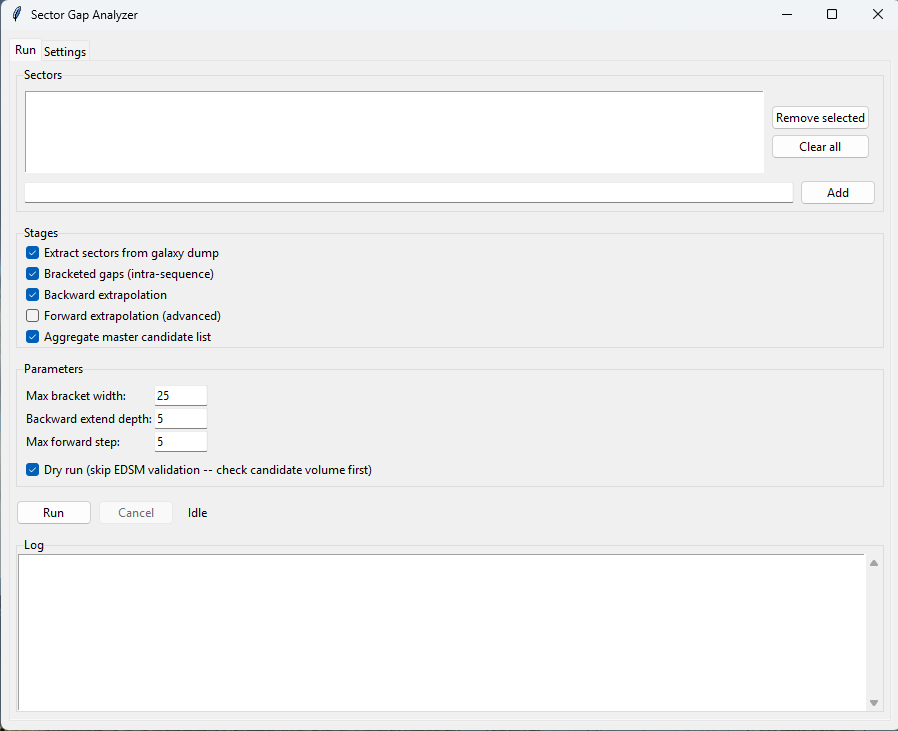
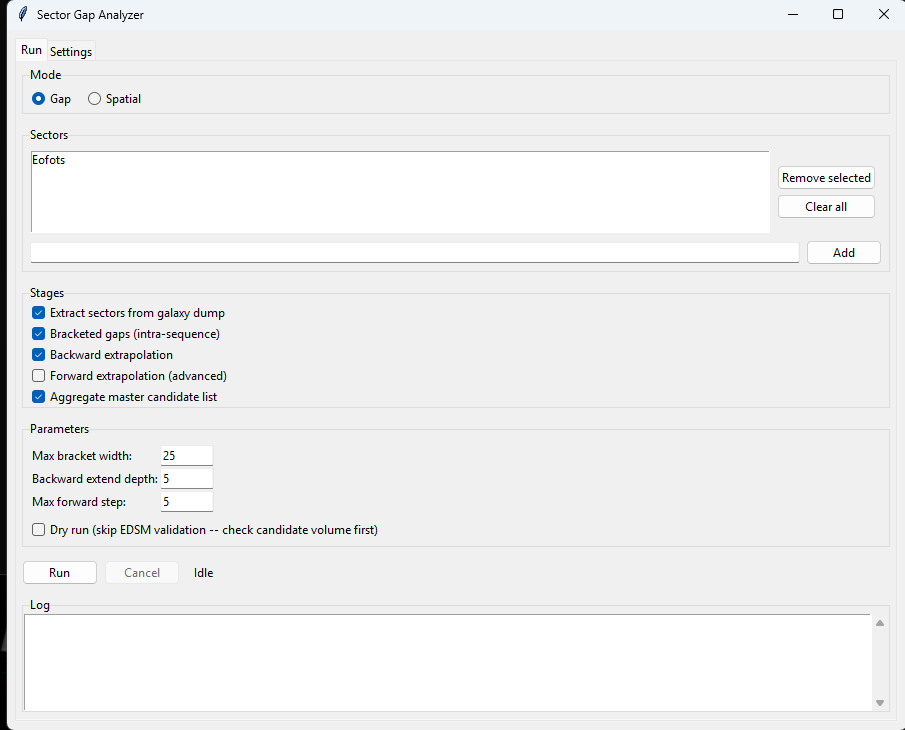
docs: document v1.1.0 features, bump version, refresh samples
Bumps version to 1.1.0 (installer.iss, version_info.txt) for the spatial
search / sort order / sector summary additions. Updates README with the
new Spatial mode, sector summary step, and output schema (mass_code/boxel
columns); refreshes the Run-tab screenshot and the master-candidate-list
samples to match the new output. Also gitignores generated sector summary
reports under data/sector_library/.

diff --git a/README.md b/README.md
@@ -137,11 +137,24 @@ numbers roughly in order, so gaps in the known numbers are informative:
   above a family's known maximum, chain-extended only while EDSM keeps
   confirming each step. Not currently part of the standard run for this
   project (see below) but available if needed.
+- **Spatial search** (`scripts/gap_spatial_export.py`) — the same bracketed-gap
+  and backward-extrapolation logic, but scoped to every system within a
+  chosen radius (light years) of a center system instead of an entire
+  sector prefix. Useful for a quick, targeted search around wherever you
+  currently are in-game rather than analyzing a whole sector. See
+  [Spatial search](#spatial-search) below.
 
 Every candidate is checked against the [EDSM](https://www.edsm.net/) API
 (`GET /api-v1/system?systemName=...`) and only kept if EDSM has no record of
 it — i.e. it's not just "missing from Spansh," it's missing everywhere we can
 cheaply check.
+
+The trailing token of a procedural name (e.g. `d1-23`) further breaks down
+into a **mass code** (`d`, one letter) and a **boxel** number (`1`) followed
+by a **serial** number (`23`). Output lists are sorted sector → subsector →
+mass code → boxel → serial — the order these tokens actually read in-game —
+so candidates near each other on the map land together, regardless of which
+method (bracketed gap, backward, spatial, etc.) found them.
 
 ## Pipeline
 
@@ -152,9 +165,13 @@ cheaply check.
 2. Extraction → data/sector_library/*.sqlite  — scripts/extract_sector_systems_to_sqlite.py
                                                  scripts/extract_multi_sector_to_sqlite.py (many sectors, one pass)
         │
+        ├──► Sector summary → sector_<slug>_summary.md   — scripts/sector_summary_export.py
+        │                                                   (GUI: automatic right after extraction)
         ▼
-3. Candidate generation + EDSM validation     — scripts/gap_full_export.py            (bracketed gaps)
-                                                 scripts/gap_extrapolate_export.py      (backward/forward)
+3. Candidate generation + EDSM validation     — scripts/gap_full_export.py            (bracketed gaps, whole sector)
+                                                 scripts/gap_extrapolate_export.py      (backward/forward, whole sector)
+                                                 scripts/gap_spatial_export.py          (bracketed gaps + backward,
+                                                                                          radius around a system)
         │
         ▼
 4. Cross-sector aggregation → out/            — scripts/aggregate_gap_master_list.py
@@ -225,6 +242,20 @@ Sector-prefix matching requires a token boundary (the prefix must be the
 whole system name or be followed by a space), so `"Oochost"` won't
 accidentally match an unrelated system starting with those same letters.
 
+### Sector summaries
+
+```bash
+python scripts/sector_summary_export.py \
+    --db data/sector_library/sector_outopps.sqlite --sector "Outopps"
+```
+
+Writes `data/sector_library/sector_<slug>_summary.md`: total systems/bodies/
+rings, median ring density per class, Earth-like-world and bio-signature
+hotspot subsector patterns, and a couple of "priority search" pointers
+derived from the strongest patterns. The GUI runs this automatically for
+every sector right after extraction; run it standalone if you extracted a
+sector before this existed, or want to refresh one.
+
 ### 3. Candidate generation + validation
 
 Run per sector, against its extracted DB:
@@ -252,21 +283,48 @@ always run `--dry-run` first — candidate volume (and therefore validation
 wall-clock time) can vary by orders of magnitude between sectors depending on
 how sparse and wide their naming families are.
 
+### Spatial search
+
+```bash
+python scripts/gap_spatial_export.py --db data/sector_library/sector_outopps.sqlite \
+    --sector "Outopps" --center-system "Outopps FG-Y d1-23" --radius-ly 20 --out-dir out
+```
+
+Requires the sector containing `--center-system` to already be extracted
+(step 2) — it doesn't touch the galaxy dump itself, only the sector DB. Finds
+every system within `--radius-ly` of the center system and runs bracketed-gap
+and backward-extrapolation candidate generation against just that
+neighborhood (`--direction bracketed_gap` / `backward` / `both`, default
+`both`). Writes `<slug>_spatial_gap_*` / `<slug>_spatial_backward_*` CSV +
+Markdown into `--out-dir`, picked up by the aggregator like any other sector
+output. In the GUI, switch the **Run** tab's Mode to **Spatial** and fill in
+Center system / Radius (ly) — the sector is auto-detected from the center
+system's name unless you set an override.
+
+Because the "known systems" universe for this search is deliberately
+restricted to the chosen radius, a real undiscovered system just outside
+that radius can occasionally surface as a false-positive backward candidate.
+EDSM validation still filters out anything that's actually a known system —
+this is a structural side effect of scoping the search spatially, not a bug.
+
 ### 4. Aggregation
 
 ```bash
 python scripts/aggregate_gap_master_list.py --out-dir out
 ```
 
-Scans `out/` for every sector's `*_gap_full_validated.csv` and
-`*_extrap_backward_validated.csv` / `*_extrap_forward_step*.csv`, keeps only
-rows EDSM has no record of (`edsm_status == not_in_edsm`), tags each with its
-sector and candidate type, and writes one combined
-`master_gap_candidates.csv` + `.md` — grouped by sector, then candidate type,
-then naming family. No composite "confidence score" is invented: ordering is
-structural (bracketed gaps, then backward extrapolation by proximity to the
-confirmed edge) because the underlying data doesn't support anything more
-precise than that.
+Scans `out/` for every sector's `*_gap_full_validated.csv`,
+`*_extrap_backward_validated.csv` / `*_extrap_forward_step*.csv`, and
+`*_spatial_gap_validated.csv` / `*_spatial_backward_validated.csv`, keeps
+only rows EDSM has no record of (`edsm_status == not_in_edsm`), tags each
+with its sector and candidate type, and writes one combined
+`master_gap_candidates.csv` + `.md` — grouped by sector, then subsector, then
+mass code, then boxel, then serial (the in-game reading order), so
+candidates near each other on the map land together regardless of which
+method found them. Candidate type and `steps_from_edge` only break ties
+within an identical location. No composite "confidence score" is invented —
+the underlying data doesn't support anything more precise than structural
+ordering.
 
 ## Dependencies
 
@@ -332,16 +390,20 @@ a compiled binary and doesn't belong in git history.
 scripts/
   extract_sector_systems_to_sqlite.py   Single-sector extraction from a galaxy dump
   extract_multi_sector_to_sqlite.py     Multi-sector extraction in one pass over the dump
+  sector_summary_export.py              Sector baseline summary report (ring/ELW/biosig stats), run after extraction
+  gap_naming.py                         Shared procedural-name parsing + sector/subsector/mass-code/boxel/serial sort key
   gap_full_export.py                    Bracketed intra-sequence gap candidates + EDSM validation
   gap_extrapolate_export.py             Backward/forward extrapolation candidates + EDSM validation
+  gap_spatial_export.py                 Bracketed gaps + backward extrapolation within a radius of a system
   aggregate_gap_master_list.py          Merge per-sector CSVs into one master candidate list
   sector_survey.py                      High-value system survey for an extracted sector DB (independent of gap pipeline)
   pencil_sector_survey.py               One-off hardcoded survey script for the Pencil Sector (not general-purpose)
 
 gui/
-  app.py           Tkinter window: sector list, stage/parameter options, Run/Cancel, live log, Settings tab
+  app.py           Tkinter window: Mode (Gap/Spatial), sector list or spatial search fields, stage/parameter
+                    options, Run/Cancel, live log, Settings tab
   worker.py        Background-thread job runner (stdout capture, cooperative cancellation)
-  pipeline.py      Orchestrates the scripts/ pipeline per sector for the GUI
+  pipeline.py      Orchestrates the scripts/ pipeline (sector or spatial mode) for the GUI
   config.py        Persisted settings (%APPDATA%\SectorGapAnalyzer\config.json)
   main.py          Entry point (`python -m gui.main`, and the PyInstaller build target)
 
@@ -351,7 +413,7 @@ icon.ico / icon.png       App icon (.ico is what's actually embedded in the buil
 requirements.txt          Runtime dependencies
 requirements-dev.txt      Adds build-time dependencies (PyInstaller) on top of requirements.txt
 
-data/sector_library/     Extracted per-sector SQLite DBs (gitignored: *.sqlite)
+data/sector_library/     Extracted per-sector SQLite DBs + summary reports (gitignored: *.sqlite, *.md)
 out/                     Generated candidate CSVs/Markdown reports (gitignored)
 docs/gap-finder.md       Original design document / methodology notes
 ```
@@ -378,26 +440,36 @@ scores (`density_score`, `bracket_score_norm`, `family_strength_score`, a
 weighted `priority_score`, spatial neighborhood anchoring, etc.). The scripts
 that actually exist today implement a simpler subset: bracketed-gap detection
 with a bracket-width cap, and backward/forward extrapolation gated by EDSM
-confirmation — no computed composite score, no spatial anchoring tier. Treat
-the doc as background on the *reasoning* behind the approach, not as a spec
-that matches the current code line-for-line.
+confirmation — no computed composite score, no scored spatial-anchoring tier
+(the doc's `density_score`-weighted neighborhood concept). `gap_spatial_export.py`'s
+"spatial search" is a different, later addition: an unscored radius filter on
+which systems count as "known" for the same bracketed-gap/backward logic, not
+the doc's confidence-weighted anchoring. Treat the doc as background on the
+*reasoning* behind the approach, not as a spec that matches the current code
+line-for-line.
 
 ## Output format reference
 
-`gap_full_export.py` and `gap_extrapolate_export.py` write CSVs with a shared
-schema so `aggregate_gap_master_list.py` can merge them:
+`gap_full_export.py`, `gap_extrapolate_export.py`, and `gap_spatial_export.py`
+write CSVs with a shared schema (see `scripts/gap_naming.py`) so
+`aggregate_gap_master_list.py` can merge them:
 
 | Column | Meaning |
 |---|---|
 | `system_name` | Candidate system name |
 | `edsm_status` | `not_in_edsm` (kept), `in_edsm` (filtered out), `skipped` (dry-run) |
-| `direction` | `bracketed_gap`, `backward`, or `forward` |
+| `direction` | `bracketed_gap` or `backward` (or `forward`, sector mode only) |
 | `steps_from_edge` | For backward/forward: distance from the known edge (1 = adjacent) |
 | `spansh_edge_number` | The known min (backward) or max (forward) the candidate extends from |
 | `family` | Sector + subsector token, e.g. `Outopps FG-Y` |
 | `subsector` | Just the subsector token, e.g. `FG-Y` |
-| `mass_prefix` | The mass-code letter+digit, e.g. `d1` |
-| `number` | The candidate's trailing number |
+| `mass_prefix` | The mass-code letter + boxel number, e.g. `d1` |
+| `mass_code` | Just the mass-code letter, e.g. `d` |
+| `boxel` | Just the boxel number, e.g. `1` |
+| `number` | The candidate's trailing serial number |
+
+`gap_spatial_export.py`'s CSVs add two more columns: `center_system` and
+`radius_ly`, recording the search that produced each row.
 
 **Sample output**: [`sample_master_gap_candidates.csv`](docs/samples/sample_master_gap_candidates.csv)
 / [`.md`](docs/samples/sample_master_gap_candidates.md) — real, EDSM-validated
@@ -412,9 +484,9 @@ Total candidates (not in EDSM): 47
 
 ## Summary
 
-| Sector | Bracketed Gap | Backward Extrap | Forward Extrap | Total |
-|--------|--------------:|-----------------:|----------------:|------:|
-| flaming_star_sector | 19 | 28 | 0 | 47 |
+| Sector | Bracketed Gap | Backward Extrap | Forward Extrap | Spatial Gap | Spatial Backward | Total |
+|--------|--------------:|-----------------:|----------------:|------------:|-----------------:|------:|
+| flaming_star_sector | 19 | 28 | 0 | 0 | 0 | 47 |
 
 ## flaming_star_sector
 

diff --git a/docs/samples/sample_master_gap_candidates.md b/docs/samples/sample_master_gap_candidates.md
@@ -1,6 +1,6 @@
 # Master Gap / Extrapolation Candidate List
 
-Generated: 2026-07-06T22:22:09.863366+00:00
+Generated: 2026-07-17T23:04:36.298716+00:00
 Sectors: 1
 Total candidates (not in EDSM): 47
 
@@ -8,9 +8,9 @@ Total candidates (not in EDSM): 47
 
 ## Summary
 
-| Sector | Bracketed Gap | Backward Extrap | Forward Extrap | Total |
-|--------|--------------:|-----------------:|----------------:|------:|
-| flaming_star_sector | 19 | 28 | 0 | 47 |
+| Sector | Bracketed Gap | Backward Extrap | Forward Extrap | Spatial Gap | Spatial Backward | Total |
+|--------|--------------:|-----------------:|----------------:|------------:|-----------------:|------:|
+| flaming_star_sector | 19 | 28 | 0 | 0 | 0 | 47 |
 
 ---
 
@@ -32,11 +32,6 @@ Total candidates (not in EDSM): 47
 
 **Flaming Star Sector IR-W** (12):
 
-  - Flaming Star Sector IR-W d1-10
-  - Flaming Star Sector IR-W d1-11
-  - Flaming Star Sector IR-W d1-12
-  - Flaming Star Sector IR-W d1-13
-  - Flaming Star Sector IR-W d1-14
   - Flaming Star Sector IR-W d1-2
   - Flaming Star Sector IR-W d1-3
   - Flaming Star Sector IR-W d1-4
@@ -44,6 +39,11 @@ Total candidates (not in EDSM): 47
   - Flaming Star Sector IR-W d1-6
   - Flaming Star Sector IR-W d1-7
   - Flaming Star Sector IR-W d1-8
+  - Flaming Star Sector IR-W d1-10
+  - Flaming Star Sector IR-W d1-11
+  - Flaming Star Sector IR-W d1-12
+  - Flaming Star Sector IR-W d1-13
+  - Flaming Star Sector IR-W d1-14
 
 **Flaming Star Sector QI-T** (3):
 
@@ -75,9 +75,9 @@ Total candidates (not in EDSM): 47
 
 **Flaming Star Sector EW-W** (3):
 
-  - Flaming Star Sector EW-W c1-2  *(step 1)*
-  - Flaming Star Sector EW-W c1-1  *(step 2)*
   - Flaming Star Sector EW-W c1-0  *(step 3)*
+  - Flaming Star Sector EW-W c1-1  *(step 2)*
+  - Flaming Star Sector EW-W c1-2  *(step 1)*
 
 **Flaming Star Sector FS-S** (1):
 
@@ -85,11 +85,11 @@ Total candidates (not in EDSM): 47
 
 **Flaming Star Sector FW-W** (5):
 
-  - Flaming Star Sector FW-W d1-6  *(step 1)*
-  - Flaming Star Sector FW-W d1-5  *(step 2)*
-  - Flaming Star Sector FW-W d1-4  *(step 3)*
-  - Flaming Star Sector FW-W d1-3  *(step 4)*
   - Flaming Star Sector FW-W d1-2  *(step 5)*
+  - Flaming Star Sector FW-W d1-3  *(step 4)*
+  - Flaming Star Sector FW-W d1-4  *(step 3)*
+  - Flaming Star Sector FW-W d1-5  *(step 2)*
+  - Flaming Star Sector FW-W d1-6  *(step 1)*
 
 **Flaming Star Sector HR-W** (1):
 
@@ -101,8 +101,8 @@ Total candidates (not in EDSM): 47
 
 **Flaming Star Sector LR-W** (2):
 
-  - Flaming Star Sector LR-W c1-1  *(step 1)*
   - Flaming Star Sector LR-W c1-0  *(step 2)*
+  - Flaming Star Sector LR-W c1-1  *(step 1)*
 
 **Flaming Star Sector LS-A** (1):
 
@@ -114,8 +114,8 @@ Total candidates (not in EDSM): 47
 
 **Flaming Star Sector LX-U** (2):
 
-  - Flaming Star Sector LX-U c2-1  *(step 1)*
   - Flaming Star Sector LX-U c2-0  *(step 2)*
+  - Flaming Star Sector LX-U c2-1  *(step 1)*
 
 **Flaming Star Sector MX-A** (1):
 